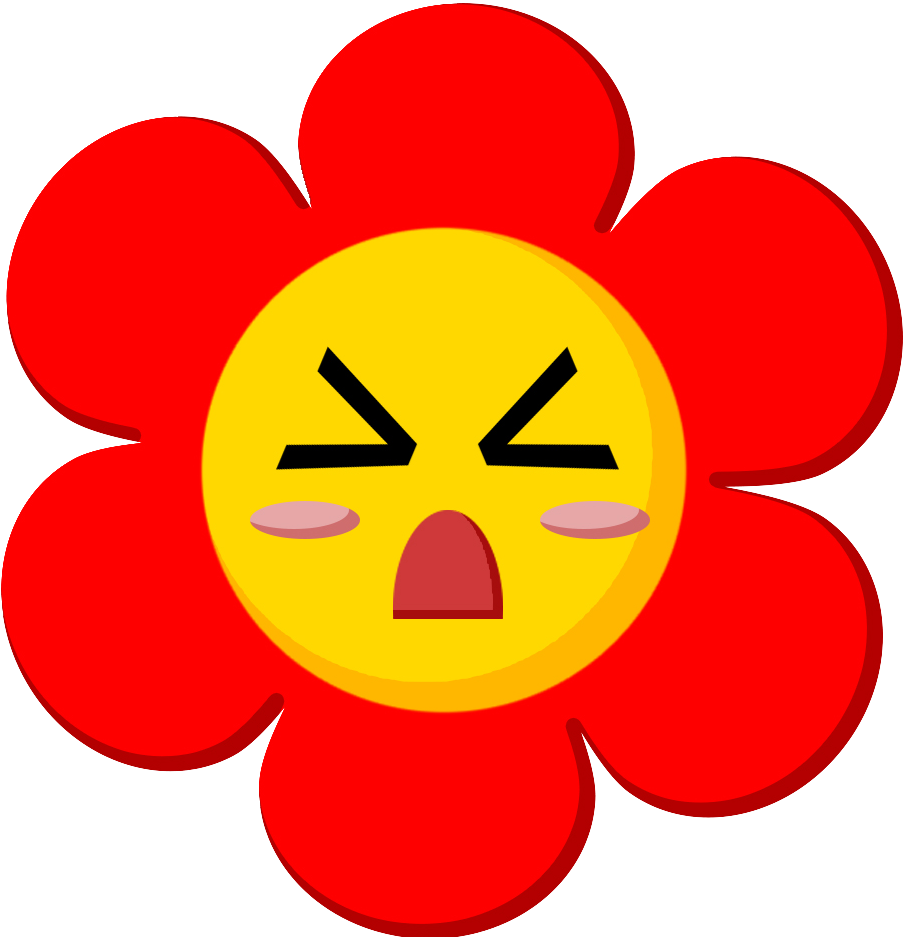
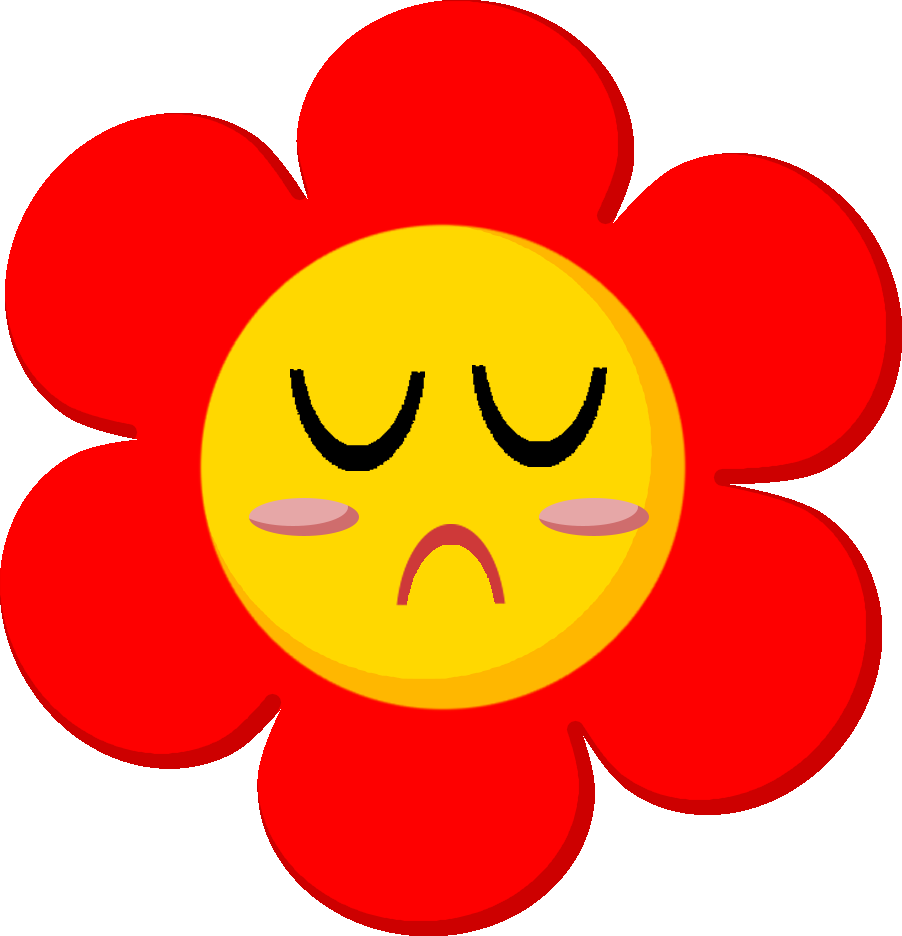
Added one more flower

diff --git a/sketch/badcloud.ts b/sketch/badcloud.ts
@@ -38,7 +38,7 @@ class BadCloud {
     public checkCollisionWithFlower(flower: Flower, waterContainer: WaterContainer): boolean {
         const d = dist(this.x, this.y, flower.endOfStem.x, flower.endOfStem.y);
         if (d < this.r + flower.r) {
-            flower.currentFlower = listOfFlowers.flower25;
+            flower.currentFlower = listOfFlowers.flowerHurt;
             if (!sadFlowerCloudSound.isPlaying()) {
                 sadFlowerCloudSound.play(0.25);
             }

diff --git a/sketch/bee.ts b/sketch/bee.ts
@@ -127,7 +127,7 @@ class Bee {
             let d = dist(this.x + 25, this.y + 25, flower.endOfStem.x, flower.endOfStem.y);
 
             if (d < this.r + flower.r) {
-                flower.currentFlower = listOfFlowers.flower25;
+                flower.currentFlower = listOfFlowers.flowerHurt;
                 this.beeHitFlower = true;
 
                 if (!sadFlowerBeeSound.isPlaying() && !beeBuzzAwaySound.isPlaying()) {

diff --git a/sketch/sketch.ts b/sketch/sketch.ts
@@ -33,6 +33,7 @@ function preload() {
 
     listOfFlowers = {
         bud: loadImage('/assets/images/bud_new.png'),
+        flowerHurt: loadImage('/assets/images/flower_hurt.png'),
         flower0: loadImage('/assets/images/flower_0.png'),
         flower25: loadImage('/assets/images/flower_25.png'),
         flower25Brown: loadImage('/assets/images/flower_25_brown.png'),

diff --git a/sketch/flower.ts b/sketch/flower.ts
@@ -4,6 +4,7 @@ let sadFlowerBeeSound: p5.SoundFile;
 
 interface Flowers {
     bud: p5.Image,
+    flowerHurt: p5.Image,
     flower0: p5.Image,
     flower25: p5.Image,
     flower25Brown: p5.Image,
